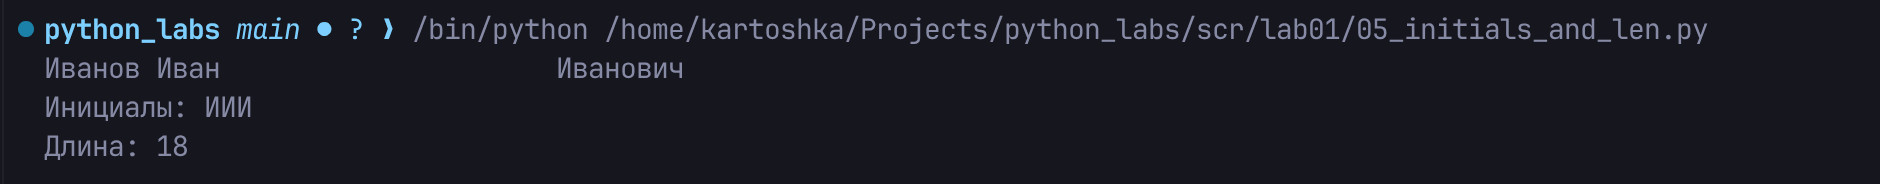
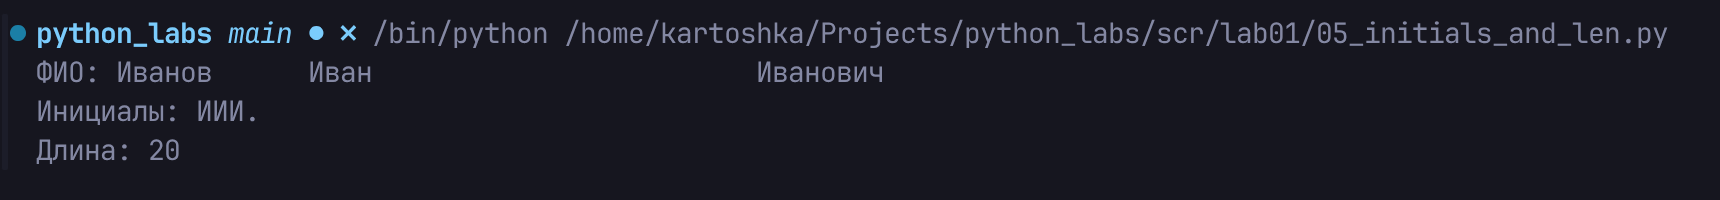
Исправление 5 задания

diff --git a/scr/lab01/05_initials_and_len.py b/scr/lab01/05_initials_and_len.py
@@ -1,4 +1,4 @@
-full_name = input().split()
-lenght = len(''.join(full_name))
-name = ''.join([i[0].upper() for i in full_name])
+full_name = input('ФИО: ').split()
+lenght = len(''.join(full_name))+2
+name = ''.join([i[0].upper() for i in full_name]) + '.'
 print(f'Инициалы: {name}\nДлина: {lenght}')
